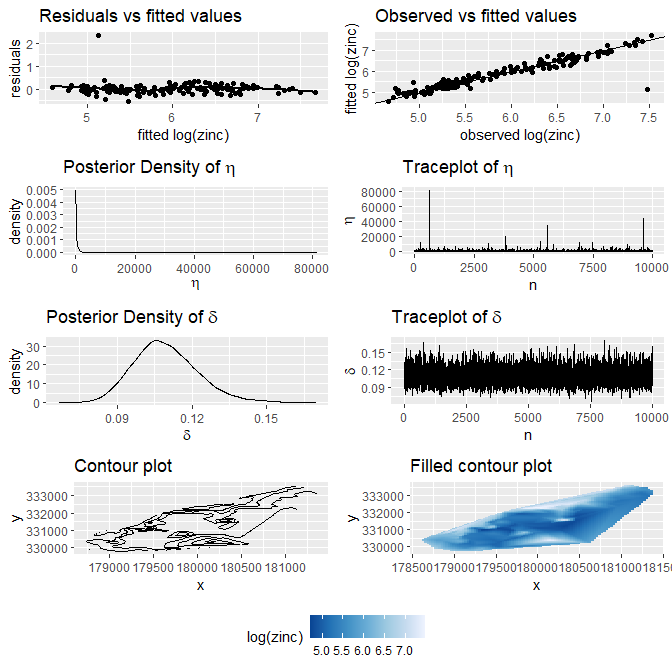
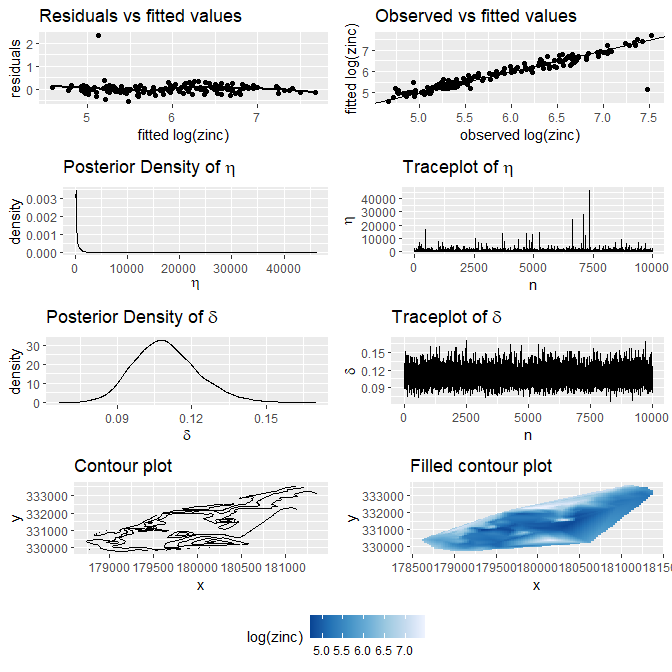
add CRAN badge to README

diff --git a/README.md b/README.md
@@ -9,6 +9,8 @@
 [![CRAN
 downloads](https://cranlogs.r-pkg.org/badges/last-month/DSSP)](https://www.r-pkg.org/pkg/DSSP)
 [![arXiv](https://img.shields.io/badge/arXiv-1906.05575-00ff00.svg)](https://arxiv.org/abs/1906.05575)
+[![CRAN
+status](https://www.r-pkg.org/badges/version/DSSP)](https://CRAN.R-project.org/package=DSSP)
 <!-- badges: end -->
 
 The goal of DSSP is to draw samples from the direct sampling spatial
@@ -53,14 +55,14 @@ summary(meuse.fit)
 #> 
 #> Summary of model:
 #>       Estimate Est.Error l-95% CI u-95% CI      ESS
-#> eta     334.14   1202.47     3.61  1897.49 10000.00
+#> eta     314.13    878.82     3.94  1659.03 10000.00
 #> delta     0.11      0.01     0.09     0.14 10000.00
 #> 
 #> Summary of covariates:
 #>             Estimate Est.Error  min q0.025 q0.25 q0.50 q0.75 q0.975  max
-#> (Intercept)     1.25      0.20 0.48   0.89  1.12  1.25  1.38   1.67 2.30
-#> log(lead)       0.96      0.04 0.84   0.89  0.94  0.96  0.99   1.03 1.10
-#> lime            0.24      0.05 0.03   0.14  0.20  0.24  0.27   0.34 0.43
+#> (Intercept)     1.25      0.20 0.45   0.89  1.12  1.24  1.38   1.66 2.30
+#> log(lead)       0.96      0.04 0.82   0.89  0.94  0.96  0.99   1.03 1.10
+#> lime            0.24      0.05 0.04   0.14  0.21  0.24  0.27   0.34 0.48
 ```
 
 We can inspect several plots for the model using `plot()`.
